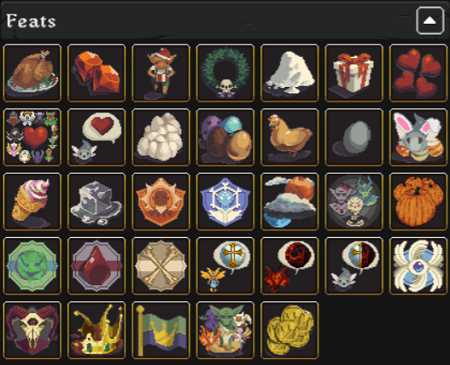
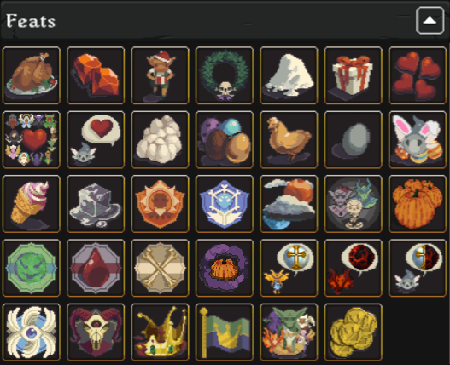
event ready

diff --git a/Events/index.php b/Events/index.php
@@ -6,7 +6,7 @@
     <h6><img src="/realm/Factions/picks/EventsTopPage.png"></h6>
     <p>Realm Grinder Events take place at annual festivals such as Thanksgiving, Christmas, Easter etc. Playing during an Event gives the players special one-time Trophies and temporary and/or permanent perks.</p>
     <p>All Event perks work only during the event. All event items, including spell cast totals, persist during all the event, throughout abdications and reincarnations.</p>
-    <p><b>Note: All Events are based on <a style="text-decoration: none" class="clock24" id="tz24-1509897346-tzutc-eyJob3VydHlwZSI6MTIsInNob3dkYXRlIjoiMCIsInNob3dzZWNvbmRzIjoiMSIsInNob3d0aW1lem9uZSI6IjEiLCJ0eXBlIjoiZCIsImxhbmciOiJlbiJ9" title="Time in UTC" target="_blank" rel="nofollow">UTC Time</a></p>
+    <p><b>Note: All Events are based on <a style="text-decoration: none" class="clock24" id="tz24-1509897346-tzutc-eyJob3VydHlwZSI6MTIsInNob3dkYXRlIjoiMCIsInNob3dzZWNvbmRzIjoiMSIsInNob3d0aW1lem9uZSI6IjEiLCJ0eXBlIjoiZCIsImxhbmciOiJlbiJ9" research="Time in UTC">UTC Time</a></p>
     <script type="text/javascript" src="//w.24timezones.com/l.js" async></script></b></p>
 <p><b>Event starts in</b></p>
 <p id="start">
@@ -176,15 +176,16 @@ var x = setInterval(function() {
     <area target="" research="Halloween<p><img src=&quot;http://musicfamily.org/realm/Factions/picks/Spooky.png&quot; align=&quot;middle&quot;> Spooky<p>Type: Feat<p>Requirements: Collect a full stack of 480 Ectoplasm while using Ghost monster pet." coords="3,236,62,295" shape="rect">
     <area target="" research="Halloween<p><img src=&quot;http://musicfamily.org/realm/Factions/picks/BloodThirsty.png&quot; align=&quot;middle&quot;> Bloodthirsty<p>Type: Feat<p>Requirements: Collect a full stack of 480 Blood while using Vampire monster pet." coords="68,237,126,295" shape="rect">
     <area target="" research="Halloween<p><img src=&quot;http://musicfamily.org/realm/Factions/picks/BonePicker.png&quot; align=&quot;middle&quot;> Bonepicker<p>Type: Feat<p>Requirements: Collect a full stack of 480 Bones while using Skeleton monster pet." coords="133,238,189,294" shape="rect">
-    <area target="" research="Anniversary<p>Blood Wars<p><img src=&quot;http://musicfamily.org/realm/Factions/picks/SacredHoliness2017.png&quot; align=&quot;middle&quot;> Sacred Holiness<p>Type: Feat<p>Requirement: Collect a full stack of 480 Holy Symbols while affiliated with the Angels.<p>Effect: If you unlock all of this event's feats, you will permanently unlock a new color option for the mana bar." coords="196,237,255,295" shape="rect">
-    <area target="" research="Anniversary<p>Blood Wars<p><img src=&quot;http://musicfamily.org/realm/Factions/picks/DarkestHeresy2017.png&quot; align=&quot;middle&quot;> Darkest Heresy<p>Type: Feat<p>Requirement: Collect a full stack of 480 Lava Stones while affiliated with the Demon.<p>Effect: If you unlock all of this event's feats, you will permanently unlock a new color option for the mana bar." coords="262,236,319,294" shape="rect">
-    <area target="" research="Anniversary<p>Blood Wars<p><img src=&quot;http://musicfamily.org/realm/Factions/picks/Indifference2018.png&quot; align=&quot;middle&quot;> Indifference<p>Type: Feat<p>Requirement: Collect a full stack of 480 of any resource while affiliated with a Neutral faction.<p>Effect: If you unlock all of this event's feats, you will permanently unlock a new color option for the mana bar." coords="326,236,382,294" shape="rect">
-    <area target="" research="Anniversary<p>Blood Wars<p><img src=&quot;http://musicfamily.org/realm/Factions/picks/SeraphimChampion2017.png&quot; align=&quot;middle&quot;> Seraphim Champion<p>Type: Feat, 3 part Quest Series Seraphim Alliance<p>Requirement: Purchase all Seraphim Upgrades.<p>Effect: Adds 4% cumulative bonus to you total Event bonus.<p>Effect: If you unlock all of this event's feats, you will permanently unlock a new color option for the mana bar." coords="390,238,447,294" shape="rect">
-    <area target="" research="Anniversary<p>Blood Wars<p><img src=&quot;http://musicfamily.org/realm/Factions/picks/AsmondeanChampion2017.png&quot; align=&quot;middle&quot;> Asmodean Champion<p>Type: Feat, 3 part Quest Series Asmodean Alliance<p>Requirement: Purchase all Seraphim Upgrades.<p>Effect: Adds 4% cumulative bonus to you total Event bonus.<p>Effect: If you unlock all of this event's feats, you will permanently unlock a new color option for the mana bar." coords="4,302,61,359" shape="rect">
-    <area target="" research="Goblin Invasion<p><img src=&quot;http://musicfamily.org/realm/Factions/picks/GoblinsBane2017.png&quot; align=&quot;middle&quot;> Goblins Bane<p>Type: Feat<p>Requirements: Fight the Goblin Army 100 times.<p>If you unlock all of this event's feats, you will permanently unlock a new color option for the mana bar." coords="69,302,126,358" shape="rect">
-    <area target="" research="Goblin Invasion<p><img src=&quot;http://musicfamily.org/realm/Factions/picks/Goblin'sCommander2017.png&quot; align=&quot;middle&quot;> Goblin's Commander<p>Type: Feat<p>Requirements: Support the Goblin Army 100 times.<p>If you unlock all of this event's feats, you will permanently unlock a new color option for the mana bar." coords="132,301,189,358" shape="rect">
-    <area target="" research="Goblin Invasion<p><img src=&quot;http://musicfamily.org/realm/Factions/picks/GoblinsEverywhere!2017.png&quot; align=&quot;middle&quot;> Goblins Everywhere!<p>Type: Feat<p>Requirements: Collect at least 10 Goblin Crowns in a single click while affiliated with any 6 different factions.<p>If you unlock all of this event's feats, you will permanently unlock a new color option for the mana bar." coords="196,301,255,359" shape="rect">
-    <area target="" research="Goblin Invasion<p><img src=&quot;http://musicfamily.org/realm/Factions/picks/GoldHunt2018.png&quot; align=&quot;middle&quot;> Gold Hunt<p>Type: Feat<p>Requirements: Collect a full stack of Goblin Crowns while affiliated with Goblins.Goblin Invasion<p>If you unlock all of this event's feats, you will permanently unlock a new color option for the mana bar." coords="262,301,317,359" shape="rect">
+    <area target="" research="Halloween<p><img src=&quot;http://musicfamily.org/realm/Factions/picks/HalloweenMagic.png&quot; align=&quot;middle&quot;> Halloween Magic <p>Type: Feat<p>Requirement: Cast each Halloween Spell at least 100 times in this reincarnation.<p>Effect: If you unlock all of this event's feats, you will permanently unlock a new color option for the mana bar." coords="196,240,254,296" shape="rect">
+    <area target="" research="Anniversary<p>Blood Wars<p><img src=&quot;http://musicfamily.org/realm/Factions/picks/SacredHoliness2017.png&quot; align=&quot;middle&quot;> Sacred Holiness<p>Type: Feat<p>Requirement: Collect a full stack of 480 Holy Symbols while affiliated with the Angels.<p>Effect: If you unlock all of this event's feats, you will permanently unlock a new color option for the mana bar." coords="261,240,317,296" shape="rect">
+    <area target="" research="Anniversary<p>Blood Wars<p><img src=&quot;http://musicfamily.org/realm/Factions/picks/DarkestHeresy2017.png&quot; align=&quot;middle&quot;> Darkest Heresy<p>Type: Feat<p>Requirement: Collect a full stack of 480 Lava Stones while affiliated with the Demon.<p>Effect: If you unlock all of this event's feats, you will permanently unlock a new color option for the mana bar." coords="325,240,383,296" shape="rect">
+    <area target="" research="Anniversary<p>Blood Wars<p><img src=&quot;http://musicfamily.org/realm/Factions/picks/Indifference2018.png&quot; align=&quot;middle&quot;> Indifference<p>Type: Feat<p>Requirement: Collect a full stack of 480 of any resource while affiliated with a Neutral faction.<p>Effect: If you unlock all of this event's feats, you will permanently unlock a new color option for the mana bar." coords="388,239,447,298" shape="rect">
+    <area target="" research="Anniversary<p>Blood Wars<p><img src=&quot;http://musicfamily.org/realm/Factions/picks/SeraphimChampion2017.png&quot; align=&quot;middle&quot;>iddle;> Seraphim Champion<p>Type: Feat, 3 part Quest Series Seraphim Alliance<p>Requirement: Purchase all Seraphim Upgrades.<p>Effect: Adds 4% cumulative bonus to you total Event bonus.<p>Effect: If you unlock all of this event's feats, you will permanently unlock a new color option for the mana bar." coords="5,304,60,361" shape="rect">
+    <area target="" research="Anniversary<p>Blood Wars<p><img src=&quot;http://musicfamily.org/realm/Factions/picks/AsmondeanChampion2017.png&quot; align=&quot;middle&quot;> Asmodean Champion<p>Type: Feat, 3 part Quest Series Asmodean Alliance<p>Requirement: Purchase all Seraphim Upgrades.<p>Effect: Adds 4% cumulative bonus to you total Event bonus.<p>Effect: If you unlock all of this event's feats, you will permanently unlock a new color option for the mana bar." coords="66,302,124,360" shape="rect">
+    <area target="" research="Goblin Invasion<p><img src=&quot;http://musicfamily.org/realm/Factions/picks/GoblinsBane2017.png&quot; align=&quot;middle&quot;> Goblins Bane<p>Type: Feat<p>Requirements: Fight the Goblin Army 100 times.<p>If you unlock all of this event's feats, you will permanently unlock a new color option for the mana bar." coords="131,303,188,362" shape="rect">
+    <area target="" research="Goblin Invasion<p><img src=&quot;http://musicfamily.org/realm/Factions/picks/Goblin'sCommander2017.png&quot; align=&quot;middle&quot;> Goblin's Commander<p>Type: Feat<p>Requirements: Support the Goblin Army 100 times.<p>If you unlock all of this event's feats, you will permanently unlock a new color option for the mana bar." coords="195,304,253,361" shape="rect">
+    <area target="" research="Goblin Invasion<p><img src=&quot;http://musicfamily.org/realm/Factions/picks/GoblinsEverywhere!2017.png&quot; align=&quot;middle&quot;> Goblins Everywhere!<p>Type: Feat<p>Requirements: Collect at least 10 Goblin Crowns in a single click while affiliated with any 6 different factions.<p>If you unlock all of this event's feats, you will permanently unlock a new color option for the mana bar." coords="261,304,317,362" shape="rect">
+    <area target="" research="Goblin Invasion<p><img src=&quot;http://musicfamily.org/realm/Factions/picks/GoldHunt2018.png&quot; align=&quot;middle&quot;> Gold Hunt<p>Type: Feat<p>Requirements: Collect a full stack of Goblin Crowns while affiliated with Goblins.Goblin Invasion<p>If you unlock all of this event's feats, you will permanently unlock a new color option for the mana bar." coords="323,303,383,361" shape="rect">
     </map></p>
     <hr>
 
@@ -227,6 +228,11 @@ div#images div{
   <center><img src="http://musicfamily.org/realm/Factions/picks/ManaBubbleSummerFest.png" width="43%" height="46%" /></center>
     <center><b>Summer Festival</b></center>
   </div>
+&nbsp
+  <div>
+  <center><img src="http://musicfamily.org/realm/Factions/picks/ManaBubbleHalloween.png" width="54%" height="54%" /></center>
+    <center><b>Halloween</b></center>
+  </div>
 </div>
 </div>
 <br>
@@ -237,6 +243,204 @@ div#images div{
     <div class="shlisting">
         <p onclick="shohid($(this));"><b><a href="#" onclick="return false;">2018 Events</a></b></p>
         <div class="category autohide">
+        <div class="shelementwhole">
+            <p onclick="shohid($(this));"><b><a href="#" onclick="return false;">Halloween (Oct 29 - Nov 5, 2018)</a></b></p>
+            <div class="autohide">
+                <p>Hello Everyone!</p>
+                <p>Shadows are gathering, and monsters are starting to lurk in the dark corners of the Realms. Choose your own, feed and grow it to its maximum potential!</p>
+                <p>The Halloween event will be starting on <b>Oct 30th 2017, 1:01 PM UTC and will end on Nov 06th 2017, 7.59 PM UTC</b>.</p>
+                <p>This event will feature daily presents (as we did for the last Christmas), inside which you will found a random monster, up to a maximum of three. Once you have found a monster, you will be able to feed it resources (see below) to make it grow, unlocking perks and bonuses in the process.</p>
+                <p>There will be three new resources for the event: Blood, Ectoplasm and Bones. They will appear in a random location of the game screen at a rate of 1 per minute, stacking up to 480 units (8 hours). You can only collect one type of resource: by doing so, the others will disappear.</p>
+                <p>Each resource will be used to feed a single monster, which will gain levels as it grows. At levels 1, 10, 25 and 50 each monster will grant you new perks, including new unique spells and upgrades. You will be able to gain advantage of one single monster at a time, but they can be toggled on and off on the fly in the Event panel.</p>
+                <p>As usual, there will be Quests and Feats to unlock: you will be able to find every information you need in the Events panel in game!</p>
+                <p>Remember that all Halloween upgrades and their bonuses will disappear after the event is over, with the exception of Quest bonuses and Feat achievements.</p>
+                <hr>
+                <p><b><img src="/realm/Factions/picks/MainPumkin.png" alt="Halloween" align="middle"> Halloween</b></p>
+                <hr>
+                <p>You will get a Pumpkin Smasher once a day (1:01PM UTC Time).</p>
+                <p>You will also get some 75 of each resources and a Ruby with each Pumpkin Smasher.</p>
+                <p>Pumpkin Smasher should give you 1 of 3 Monster (Skeleton, Ghost and Vampire) if you are missing any.</p>
+                <p>The first Pumpkin Smasher also gives <b><img src="/realm/Factions/picks/CrucibleOfDarkness.png" alt="CrucibleOfDarkness" align="middle"> Crucible Of Darkness</b></p>
+                <p><b>Note</b>: You need to click on monster to activate it and get the Crucible Of Darkness upgrade.</p>
+                <p><b>Kind</b>: Upgrade</p>
+                <p><b>Unlock / Price</b>: Free</p>
+                <p><b>Effect</b>: Increase the production of all buildings based on Halloween Resources collected. Increases as you gain new monsters.</p>
+                <p><b>Formula</b>: 1 + 0.0035 * ((Blood + Ectoplasm + Bones) / 3) * ((1 + min(0 + 1.6 * (Blood/25) - 0.002 * (Blood/25)^2 + 0.000024 * (Blood/25)^3), 12500) * (same for Ectoplasm and Bones))^0.4</p>
+                <hr>
+                <p>Collect all 4 Quest to complete a Feat</p>
+                <p>Collect 6 Pumpkin Smashers to complete a Feat</p>
+                <p><b>Quests</b></p>
+                <p><b>Pumpkin Smasher</b></p>
+                <p><b><img src="/realm/Factions/picks/PumpkinSmasher1.png" alt="Halloween" align="middle"> Pumpkin Smasher 1</b></p>
+                <p><b>Requirements</b>: Log in once a day to collect the pumpkin.</p>
+                <p><b>Effect</b>: Completing this quest step will give you 1 of 3 Monsters, also gives resources and a gift</p>
+                <p><b>Effect</b>: Completing this quest step will increase your Event Bonus by 1% (Total), which will be added to your Cumulative Event Bonus</p>
+                <br/>
+                <p><b><img src="/realm/Factions/picks/PumpkinSmasher2.png" alt="Halloween" align="middle"> Pumpkin Smasher 2</b></p>
+                <p><b>Requirements</b>: Log in once a day to collect the pumpkin.</p>
+                <p><b>Effect</b>: Completing this quest step will increase your Event Bonus by 2% (Total), which will be added to your Cumulative Event Bonus</p>
+                <br/>
+                <p><b><img src="/realm/Factions/picks/PumpkinSmasher3.png" alt="Halloween" align="middle"> Pumpkin Smasher 3</b></p>
+                <p><b>Requirements</b>: Log in once a day to collect the pumpkin.</p>
+                <p><b>Effect</b>: Completing this quest step will increase your Event Bonus by 4% (Total), which will be added to your Cumulative Event Bonus</p>
+                <br/>
+                <p><b><img src="/realm/Factions/picks/PumpkinSmasher4.png" alt="Halloween" align="middle"> Pumpkin Smasher 4</b></p>
+                <p><b>Requirements</b>: Log in once a day to collect the pumpkin.</p>
+                <p><b>Effect</b>: Completing this quest step will increase your Event Bonus by 7% (Total), which will be added to your Cumulative Event Bonus</p>
+                <hr>
+                <p>Collect all 3 Quest to complete a Feat</p>
+                <p><b>Monster Breeder</b></p>
+                <p><b>Kind</b>: 3 Quest Series</p>
+                <p><b>Requirements</b>: Grow all monsters to lvl. 10, 25, 50</p>
+                <p><b><img src="/realm/Factions/picks/MonsterBreeder1.png" alt="Halloween" align="middle"> Monster Breeder 1</b></p>
+                <p><b>Requirements</b>: Grow all monsters to lvl. 10</p>
+                <p><b>Effect</b>: Completing this quest step will increase your Event Bonus by 1% (Total), which will be added to your Cumulative Event Bonus</p>
+                <br/>
+                <p><b><img src="/realm/Factions/picks/MonsterBreeder2.png" alt="Halloween" align="middle"> Monster Breeder 2</b></p>
+                <p><b>Requirements</b>: Grow all monsters to lvl. 25</p>
+                <p><b>Effect</b>: Completing this quest step will increase your Event Bonus by 2% (Total), which will be added to your Cumulative Event Bonus</p>
+                <br/>
+                <p><b><img src="/realm/Factions/picks/MonsterBreeder3.png" alt="Halloween" align="middle"> Monster Breeder 3</b></p>
+                <p><b>Requirements</b>: Grow all monsters to lvl. 50</p>
+                <p><b>Effect</b>: Completing this quest step will increase your Event Bonus by 4% (Total), which will be added to your Cumulative Event Bonus</p>
+                <hr>
+                <p><b>Feats</b></p>
+                <p><b><img src="/realm/Factions/picks/MonsterBreederFeat.png" alt="Halloween" align="middle"> Monster Breeder</b></p>
+                <p><b>Requirements</b>: Grow all monsters to lvl. 50</p>
+                <p><b>Effect</b>: Completing this Feat step will increase your Event Bonus by 4% (Total), which will be added to your Cumulative Event Bonus</p>
+                <br/>
+                <p><b><img src="/realm/Factions/picks/PumpkinSmasher4.png" alt="Halloween" align="middle"> Pumpkin Smasher</b></p>
+                <p><b>Requirements</b>: Smash 6 Halloween Pumpkins</p>
+                <p><b>Effect</b>: Completing this Feat step will increase your Event Bonus by 7% (Total), which will be added to your Cumulative Event Bonus</p>
+                <br/>
+                <p><b><img src="/realm/Factions/picks/Spooky.png" alt="Halloween" align="middle"> Spooky</b></p>
+                <p><b>Requirements</b>: Collect a full stack of 480 Ectoplasm while <b>USING</b> Ghost monster pet.(Must have the spell)</p>
+                <br/>
+                <p><b><img src="/realm/Factions/picks/BloodThirsty.png" alt="Halloween" align="middle"> Blood Thirsty</b></p>
+                <p><b>Requirements</b>: Collect a full stack of 480 Blood while <b>USING</b> Vampire monster pet.(Must have the spell)</p>
+                <br/>
+                <p><b><img src="/realm/Factions/picks/BonePicker.png" alt="Halloween" align="middle"> Bone Picker</b></p>
+                <p><b>Requirements</b>: Collect a full stack of 480 Bones while <b>USING</b> Skeleton monster pet.(Must have the spell)</p>
+                <p><b><img src="/realm/Factions/picks/HalloweenMagic.png" alt="Halloween" align="middle"> Halloween Magic</b></p>
+                <br/>
+                <p><b>Requirements</b>: Cast each Halloween Spell at least 100 times in this reincarnation.</p>
+                <p><b>Effect</b>: If you unlock all of this event's feats, you will permanently unlock a new color option for the mana bar.</p>
+                <hr>
+                <p><b>Shop</b></p>
+                <p><b><img src="/realm/Factions/picks/HalloweenShop1.png" alt="Halloween" align="middle"> Shop 1</b></p>
+                <p><b>Cost</b>: 5 Rubies</p>
+                <p><b>Effect</b>: Gives you 50 Blood, Ectoplasm and Bones and offer you a new deal.</p>
+                <br/>
+                <p><b><img src="/realm/Factions/picks/HalloweenShop2.png" alt="Halloween" align="middle"> Shop 2</b></p>
+                <p><b>Cost</b>: 15 Rubies</p>
+                <p><b>Effect</b>: Gives you 225 Blood, Ectoplasm and Bones and offer you a new deal.</p>
+                <br/>
+                <p><b><img src="/realm/Factions/picks/HalloweenShop3.png" alt="Halloween" align="middle"> Shop 3</b></p>
+                <p><b>Cost</b>: 45 Rubies</p>
+                <p><b>Effect</b>: Gives you 875 Blood, Ectoplasm and Bones and offer you a new deal.</p>
+                <br/>
+                <p><b><img src="/realm/Factions/picks/HalloweenShop4.png" alt="Halloween" align="middle"> Shop 4</b></p>
+                <p><b>Cost</b>: 100 Rubies</p>
+                <p><b>Effect</b>: Gives you 2250 Blood, Ectoplasm and Bones</p>
+                <hr>
+                <p><b>Resources</b></p>
+                <p><b><img src="/realm/Factions/picks/Blood.png" alt="Blood" align="middle"> Blood</b>
+                    <b><img src="/realm/Factions/picks/Ectoplasm.png" alt="Ectoplasm" align="middle"> Ectoplasm</b>
+                    <b><img src="/realm/Factions/picks/Bones.png" alt="Vanpire" align="middle"> Bones</b></p>
+                <p>You will need 3058 of each (Blood, Ectoplasm and Bones) to complete event.</p>
+                <p>They will appear in a random location of the game screen at a rate of 1 per minute, stacking up to 480 units (8 hours).</p>
+                <p>Scrying will add 1 of each to your total (not your stack) every 15 minutes for 4 hours.</p>
+                <hr>
+                <p><b><img src="/realm/Factions/picks/Vampire.png" alt="Vanpire" align="middle"> Vampire</b></p>
+                <p><b>Kind</b>: Monster</p>
+                <p><b>Level</b>: 1</p>
+                <p><b>Unlock / Price</b>: Free from daily pumpkin present</p>
+                <br/>
+                <p><b><img src="/realm/Factions/picks/VanpireSire.png" alt="VanpireSire" align="middle"> Vanpire Sire</b></p>
+                <p><b>Kind</b>: Monster</p>
+                <p><b>Level</b>: 10</p>
+                <p><b>Unlock / Price</b>: 198 Blood</p>
+                <p><b>Effect</b>: Gives the spell (Shadow Embrace)</p>
+                <br/>
+                <p><b><img src="/realm/Factions/picks/VampireLord.png" alt="VampireLord" align="middle"> Vampire Lord</b></p>
+                <p><b>Kind</b>: Monster</p>
+                <p><b>Level</b>: 25</p>
+                <p><b>Unlock / Price</b>: 660 Blood</p>
+                <p><b>Effect</b>: Gain all Bloodline effects of prestige factions outside your alignment at once.</p>
+                <p><b>Note</b>: You can select any Lineage based on those bloodlines.</p>
+                <br/>
+                <p><b><img src="/realm/Factions/picks/VampireKing.png" alt="VampireKing" align="middle"> Vampire King</b></p>
+                <p><b>Kind</b>: Monster</p>
+                <p><b>Level</b>: 50</p>
+                <p><b>Unlock / Price</b>: 2200 Blood</p>
+                <p><b>Effect</b>: Reduce the cost of faction spells by %75.</p>
+                <br/>
+                <p><b><img src="/realm/Factions/picks/ShadowEmbrace.png" alt="ShadowEmbrace" align="middle"> Shadow Embrace</b></p>
+                <p><b>Requirement</b>: Level 10 Vampire Monster</p>
+                <p><b>Effect</b>: Increase the size of your assistant army based on the amount of Reincarnations you made for 20 seconds. Increases progressively as you continue casting this spell.</p>
+                <p><b>Formula</b>: (R + 1) * (Number of casts (this game))^0.5, where R is Reincarnation count.</p>
+                <hr>
+                <p><b><img src="/realm/Factions/picks/Ghost.png" alt="Ghost" align="middle"> Ghost</b></p>
+                <p><b>Kind</b>: Monster</p>
+                <p><b>Level</b>: 1</p>
+                <p><b>Unlock / Price</b>: Free from daily pumpkin present</p>
+                <br/>
+                <p><b><img src="/realm/Factions/picks/Banshee.png" alt="Banshee" align="middle"> Banshee</b></p>
+                <p><b>Kind</b>: Monster</p>
+                <p><b>Level</b>: 10</p>
+                <p><b>Unlock / Price</b>: 198 Ectoplasm</p>
+                <p><b>Effect</b>: Gives the spell (Wail of the Banshee)</p>
+                <br/>
+                <p><b><img src="/realm/Factions/picks/Wrath.png" alt="Wrath" align="middle"> Wrath</b></p>
+                <p><b>Kind</b>: Monster</p>
+                <p><b>Level</b>: 25</p>
+                <p><b>Unlock / Price</b>: 660 Ectoplasm</p>
+                <p><b>Effect</b>: Increase maximum mana and mana regeneration based on clicks made in this game.</p>
+                <p><b>Formula</b>: Max Mana: log10((1 + x) ^ 2.5)</p>
+                <p><b>Formula</b>: Mana Regeneration: log10((1 + x) ^ 2.25), non additive boost.</p>
+                <br/>
+                <p><b><img src="/realm/Factions/picks/Spectre.png" alt="Spectre" align="middle"> Spectre</b></p>
+                <p><b>Kind</b>: Monster</p>
+                <p><b>Level</b>: 50</p>
+                <p><b>Unlock / Price</b>: 2200 Ectoplasm</p>
+                <p><b>Effect</b>: All productive clicks benefit from a 100 times greater Faction Coin find chance.</p>
+                <br/>
+                <p><b><img src="/realm/Factions/picks/WailoftheBanshee.png" alt="WailoftheBanshee" align="middle"> Wail of the Banshee</b></p>
+                <p><b>Requirement</b>: Level 10 Ghost Monster</p>
+                <p><b>Effect</b>: Increase the production of all buildings based on mana produced in this game and the amount of Reincarnations you made for 20 seconds.</p>
+                <p><b>Formula</b>: 0.2 * (R + 1) * x^0.45, where R is reincarnation count and x is mana produced.</p>
+                <hr>
+                <p><b><img src="/realm/Factions/picks/Skeleton.png" alt="Skeleton" align="middle"> Skeleton</b></p>
+                <p><b>Kind</b>: Monster</p>
+                <p><b>Level</b>: 1</p>
+                <p><b>Unlock / Price</b>: Free from daily pumpkin present</p>
+                <br/>
+                <p><b><img src="/realm/Factions/picks/BigSkeleton.png" alt="" align="middle"> Big Skeleton</b></p>
+                <p><b>Kind</b>: Monster</p>
+                <p><b>Level</b>: 10</p>
+                <p><b>Unlock / Price</b>: 198 Bones</p>
+                <p><b>Effect</b>: Gives the spell (Cannibalize)</p>
+                <br/>
+                <p><b><img src="/realm/Factions/picks/HugeSkeleton.png" alt="" align="middle"> Huge Skeleton</b></p>
+                <p><b>Kind</b>: Monster</p>
+                <p><b>Level</b>: 25</p>
+                <p><b>Unlock / Price</b>: 660 Bones</p>
+                <p><b>Effect</b>: Increase Offline production bonus based on time spent with the faction you are affiliated with.</p>
+                <p><b>Formula</b>: x^0.7</p>
+                <p><b>Note</b>: Not effected by ascension penalties</p>
+                <br/>
+                <p><b><img src="/realm/Factions/picks/GiantSkeleton.png" alt="" align="middle"> Giant Skeleton</b></p>
+                <p><b>Kind</b>: Monster</p>
+                <p><b>Level</b>: 50</p>
+                <p><b>Unlock / Price</b>: 2200 Bones</p>
+                <p><b>Effect</b>: Triple your offline productions of clicks, mana, spells cast and spell activity time.</p>
+                <br/>
+                <p><b><img src="/realm/Factions/picks/Cannibalize.png" alt="Cannibalize" align="middle"> Cannibalize</b></p>
+                <p><b>Requirement</b>: Level 10 Skeleton Monster</p>
+                <p><b>Effect</b>: Increase Faction Coin find chance based on the total amount of Bones collected and the amount of Reincarnations you made for 20 seconds.</p>
+                <p><b>Formula</b>: ceil(0.75 * (R + 1) * x^0.75), where R is Reincarnation count and x is bones collected.</p>
+             </div>
+        </div>
         <div class="shelementwhole">
             <p onclick="shohid($(this));"><b><a href="#" onclick="return false;">Summer Festival (Aug 23 - Aug 30, 2017)</a></b></p>
             <div class="autohide">

diff --git a/Demon/index.php b/Demon/index.php
@@ -23,7 +23,7 @@
 <p><b>Effect</b>: Increase max mana by 6.66% of your number of Halls of Legends.</p>
 <p><b>Upgrade</b>: Good for Fairy</p>
 <p><b>Tips</b>:</p>
-<p>High gem and low Excavations (relative). Work up enough coins to excavate 96 REs, until the number says "(96)", and then buy 1 or 2 more to get exactly 666. Don't buy Demon exchanges. Drow's blackmail upgrade helps the challenge, and the exchanges don't have to be spread evenly.</p>
+<p>High gem and low Excavations (relative). Work up enough coins to excavate until you can buy 96 of each. then for 6 of them you need to buy 95 and for the 7th you need to buy 96. Don't buy Demon exchanges. Drow's blackmail upgrade helps the challenge, and the exchanges don't have to be spread evenly.</p>
 <hr>
 <p><b>Demon Challenge 3</b></p>
 <p><img src="http://musicfamily.org/realm/Factions/picks/PassagetoTartarusChallenges.png" alt="Efficient Magic" align="middle"> <b>Passage to Tartarus</b></p>
